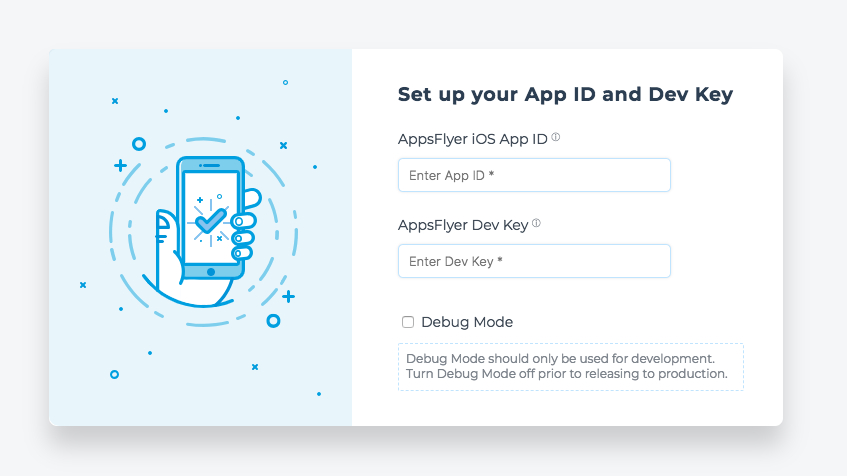
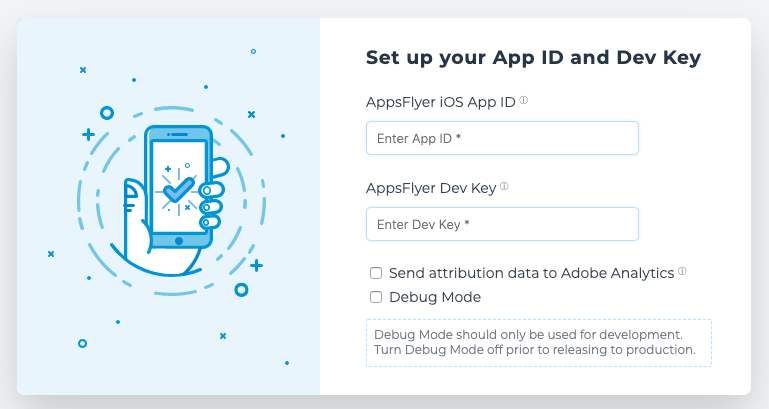
Attribution Data Toggle
dded AppsFlyer Attribution data via Analytics event toggle support.

diff --git a/AppsFlyerAdobeExtension/Classes/AppsFlyerAdobeExtension.m b/AppsFlyerAdobeExtension/Classes/AppsFlyerAdobeExtension.m
@@ -24,6 +24,8 @@ static void (^__errorHandler)(NSError*) = nil;
         
         _didReceiveConfigurations = NO;
         _didInit = NO;
+        _trackAttributionData = NO;
+        
         NSError* error = nil;
         
         // Listener/Dispatcher for shared state events
@@ -91,7 +93,8 @@ static void (^__errorHandler)(NSError*) = nil;
     NSLog(@"com.appsflyer.adobeextension unexpectedError %@", error);
 }
 
-- (void)setupAppsFlyerTrackingWithAppId:(NSString*)appId appsFlyerDevKey:(NSString*)appsFlyerDevKey isDebug:(BOOL)isDebug {
+- (void)setupAppsFlyerTrackingWithAppId:(NSString*)appId appsFlyerDevKey:(NSString*)appsFlyerDevKey
+                                isDebug:(BOOL)isDebug trackAttrData:(BOOL)trackAttrData {
     if (appId != nil && appsFlyerDevKey != nil) {
         if (![self didReceiveConfigurations]) {
             
@@ -109,6 +112,8 @@ static void (^__errorHandler)(NSError*) = nil;
             [AppsFlyerTracker sharedTracker].isDebug = isDebug;
             
             [[NSNotificationCenter defaultCenter] addObserver:self selector:@selector(appDidBecomeActive) name:UIApplicationDidBecomeActiveNotification object:nil];
+            
+            [self setTrackAttributionData:trackAttrData];
             [self setDidReceiveConfigurations:YES];
             
             if (![self didInit]) {
@@ -138,6 +143,14 @@ static void (^__errorHandler)(NSError*) = nil;
 }
 
 - (void)onConversionDataReceived:(NSDictionary*)installData {
+    if (_trackAttributionData) {
+        id isFirstData = [installData objectForKey:@"is_first_launch"];
+        BOOL firstData = [isFirstData isKindOfClass:[NSNumber class]] && [isFirstData integerValue] == 1;
+        if (firstData) {
+            [ACPCore trackAction:@"AppsFlyer Attribution Data" data:[self setKeyPrefix:installData]];
+        }
+    }
+    
     NSMutableDictionary* appendedInstallData = [NSMutableDictionary dictionaryWithDictionary:installData];
     [appendedInstallData setObject:@"onConversionDataReceived" forKey:@"callback_type"];
     if (__completionHandler) {
@@ -167,6 +180,18 @@ static void (^__errorHandler)(NSError*) = nil;
 
 + (void)callbacksErrorHandler:(void (^) (NSError *error))errorHandler {
     __errorHandler = errorHandler;
+}
+
+-(NSMutableDictionary *) setKeyPrefix:(NSDictionary *)attributionData {
+    NSMutableDictionary* withPrefix = [[NSMutableDictionary alloc] init];
+    for(id key in attributionData) {
+        if (![key isEqualToString:@"callback_type"]) {
+            NSString* newKey = [NSString stringWithFormat: @"%@%@", @"appsflyer.", key];
+            NSString* newValue = [NSString stringWithFormat: @"%@", [attributionData objectForKey:key]];
+            [withPrefix setObject:newValue  forKey:newKey];
+        }
+    }
+    return withPrefix;
 }
 
 @end

diff --git a/AppsFlyerAdobeExtension/Classes/AppsFlyerSharedStateListener.m b/AppsFlyerAdobeExtension/Classes/AppsFlyerSharedStateListener.m
@@ -41,11 +41,15 @@
                 NSString* appsFlyerAppId = [configSharedState objectForKey:@"appsFlyerAppId"];
                 NSString* appsFlyerDevKey = [configSharedState objectForKey:@"appsFlyerDevKey"];
                 id appsFlyerIsDebug = [configSharedState objectForKey:@"appsFlyerIsDebug"];
+                id appsFlyerTrackAttrData = [configSharedState objectForKey:@"appsFlyerTrackAttrData"];
+                
                 BOOL isDebug = [appsFlyerIsDebug isKindOfClass:[NSNumber class]] && [appsFlyerIsDebug integerValue] == 1;
+                BOOL trackAttrData = [appsFlyerTrackAttrData isKindOfClass:[NSNumber class]] && [appsFlyerTrackAttrData integerValue] == 1;
                 
                 [[AppsFlyerAdobeExtension shared] setupAppsFlyerTrackingWithAppId:appsFlyerAppId
                                                                   appsFlyerDevKey:appsFlyerDevKey
-                                                                          isDebug:isDebug];
+                                                                          isDebug:isDebug
+                                                                    trackAttrData:trackAttrData];
                 
                 NSLog(@"com.appsflyer.adobeextension Received credentials for app: %@", [configSharedState objectForKey:@"appsFlyerAppId"]);
             } else {

diff --git a/AppsFlyerAdobeExtension/Classes/AppsFlyerAdobeExtension.h b/AppsFlyerAdobeExtension/Classes/AppsFlyerAdobeExtension.h
@@ -19,6 +19,7 @@ NS_ASSUME_NONNULL_BEGIN
 
 @property (atomic) BOOL didReceiveConfigurations;
 @property (atomic) BOOL didInit;
+@property (atomic) BOOL trackAttributionData;
 
 + (nullable instancetype)shared;
 + (void)registerExtension;
@@ -27,9 +28,10 @@ NS_ASSUME_NONNULL_BEGIN
 - (void)onUnregister;
 - (void)unexpectedError: (NSError*) error;
 
-- (void)setupAppsFlyerTrackingWithAppId:(NSString*)appId appsFlyerDevKey:(NSString*)appsFlyerDevKey isDebug:(BOOL)isDebug;
+- (void)setupAppsFlyerTrackingWithAppId:(NSString*)appId appsFlyerDevKey:(NSString*)appsFlyerDevKey isDebug:(BOOL)isDebug trackAttrData:(BOOL)trackAttrData;
 + (void)registerCallbacks:(void (^ _Nullable)(NSDictionary *dictionary))completionHandler;
 + (void)callbacksErrorHandler:(void (^ _Nullable)(NSError *error))errorHandler;
+- (NSMutableDictionary*)setKeyPrefix:(NSDictionary *)attributionData;
 
 + (void)continueUserActivity:(NSUserActivity *)userActivity restorationHandler:(void (^)(NSArray<id<UIUserActivityRestoring>> *restorableObjects))restorationHandler;
 + (void)openURL:(NSURL *)url options:(NSDictionary *)options;

diff --git a/AppsFlyerAdobeExtension/Classes/AppsFlyerEventListener.m b/AppsFlyerAdobeExtension/Classes/AppsFlyerEventListener.m
@@ -25,6 +25,11 @@
         NSDictionary* nestedData = [eventData objectForKey:@"contextdata"];
         NSString* eventName = [eventData objectForKey:@"action"];
         
+        if ([eventName isEqualToString:@"AppsFlyer Attribution Data"]) {
+            NSLog(@"com.appsflyer.adobeextension Discarding event binding for AppsFlyer Attribution Data event");
+            return;
+        }
+        
         NSNumber* revenue = [self extractRevenue:nestedData withKey:@"revenue"];
         NSString* currency = [self extractCurrency:nestedData withKey:@"currency"];
         

diff --git a/README.md b/README.md
@@ -16,6 +16,8 @@
 
 - [Tracking Deep Links](#deeplinks)
 
+- [Attribution Data tracking with Adobe Analytics](#analyticsPostback)
+
 ## <a id="installation">  Installation
 
 Import the latest `AppsFlyerAdobeExtension` from cocoaPods:
@@ -91,3 +93,12 @@ Tracking URL Types (Schemes) using the AppsFlyerAdobeExtension requires the deve
 	return  YES;
 }
 ```
+
+## <a id="analyticsPostback"> Attribution Data tracking with Adobe Analytics
+Checking the "Send attribution data to Adobe Analytics" toggle on the [Configurations Dashboard](#Initialisation) will automatically send AppsFlyer Attribution data to Adobe Analytics using the `MobileCore.trackAction()` API - The data will be sent as an "*AppsFlyer Attribution Data*" Action.
+
+All ContextData will be prefixed by the `appsflyer.` prefix, for example: `appsflyer.campaign`, `appsflyer.adset` etc.
+
+*The Adobe Analytics Extension must be added and configured in the client Application.*
+
+**NOTE**: Use this feature if you are only working with ad networks that allow sharing user level data with 3rd party tools.
